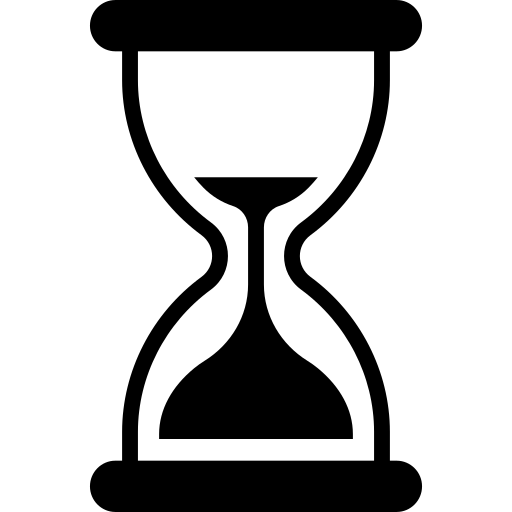
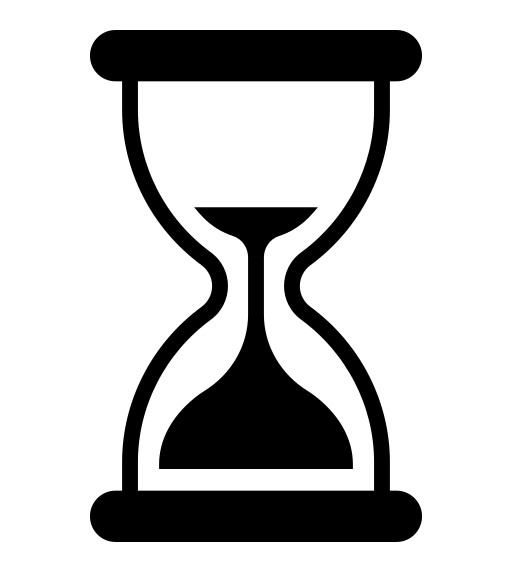
histoire fini + debut transition

diff --git a/pages/transition_numerique.html b/pages/transition_numerique.html
@@ -1,0 +1,80 @@
+<!DOCTYPE html>
+
+<html lang="en" xmlns="http://www.w3.org/1999/xhtml">
+<head>
+    <meta charset="utf-8" />
+    <title>Transition Numérique et Ecologique</title>
+    <link href="../style.css" rel="stylesheet">
+</head>
+<body>
+    <header>
+        <nav>
+            <img src="../assets/index/logo.png" alt="logo" />
+            <ul>
+                <li><a class="underline-animation" href="#">Projets</a></li>
+                <li><a class="underline-animation" href="#">Partenaire</a></li>
+                <li><a class="underline-animation" href="#">Ecologie</a></li>
+                <li><a class="underline-animation" href="#">Organisation</a></li>
+                <li><a class="underline-animation" href="#">Histoire</a></li>
+            </ul>
+        </nav>
+    </header>
+
+    <main class="main_transition_numerique">
+
+        <section>
+            <img src="../assets/transition_numerique/environnement.jpg" alt="Image de l'environnement" />
+            <span class="title">Transition numérique et écologique </span>
+        </section>
+
+        <section>
+            <p>SCC Une entreprise au coeur de l'environnement</p>
+        </section>
+
+        <section>
+            <p>
+                L’écologie est une valeur fondamentale de notre entreprise.
+            </p>
+
+            <p>
+                SCC France s’engage activement dans la transition écologique en alignant ses services sur les normes environnementales les plus strictes.
+                <img src="../assets/transition_numerique/ecologie_environnement.jpg" alt="Image arbre dans une ampoule" />
+            </p>
+        </section>
+
+        <section>
+            <p>
+                Dans un contexte de problème climatique important lié au réchauffement climatique et aux émissions de carbone,
+                chez SCC France la responsabilité sociétale des entreprises (RSE) est au centre des priorités.
+                <img src="../assets/transition_numerique/coeur_champ.jpg" alt="Image arbre dans une ampoule" />
+            </p>
+        </section>
+
+        <section>
+            <p>
+                Nos actions sont diverses et variées. Nous collaborons étroitement avec FRET 21 pour réduire de manière significative
+                les émissions de carbone liées au transport de nos installations.
+
+                Un autre point, notre partenariat avec HP qui nous permet de distribuer des ordinateurs à très faible consommation
+                énergétique au sein de notre entreprise.
+
+                Un engagement écologique reconnu par Ecovadis: Nous sommes classés parmi le top 1% attestant de notre performance
+                et cela pour la cinquième année de suite.
+
+                <img src="../assets/transition_numerique/Ecovadis_certification.png" alt="Certification Ecovadis" />
+            </p>
+        </section>
+
+        <section>
+            <p>
+                Nous sommes engagés pour réduire notre consommation d’électricité de nos serveurs et toutes nos installations informatiques. 
+                Cela a pour but d’offrir à nos clients la possibilité de s’investir dans la lutte contre le réchauffement climatique en réduisant leurs émissions et tout en renforçant leur image écoresponsable.
+
+                <img src="../assets/transition_numerique/ampoule_verte.jpg" alt="Ampoule verte en harmonie avec l'envrionnement" />
+            </p>
+        </section>
+
+    </main>
+
+</body>
+</html>

diff --git a/style.css b/style.css
@@ -178,13 +178,9 @@ button:hover {
     flex-direction: column;
 }
 
-.main_histoire h1{
-    align-self: center;
-}
 
 .main_histoire section {
-    width: 100%;
-    height: 35em;
+ 
     align-self: center;
     display: flex;
     flex-direction: column;
@@ -192,9 +188,9 @@ button:hover {
 }
 
 .main_histoire section > img {
-    width: 100%;
-    height: 100%;
-}
+     width: 100vw;
+     height: calc(100vh - 3em);
+ }
 
 .main_histoire article {
     background-color: #ece9e9;
@@ -221,22 +217,62 @@ button:hover {
     margin-right: 12em;
 }
 
-.main_histoire button{
-    position: relative;
-    width: 11em;
-    height: 10em;
-}
 
-.main_histoire button img{
-    width: 100%;
-    height: 50%;
-}
-
-.badge{
+.badge {
+    height: 8em;
+    width: 8em;
     position: absolute;
-    bottom: 20px;
+    display: block;
+    bottom: 5em;
     left: 50%;
     transform: translateX(-50%);
+    font-weight: bold;
+    border: 2px solid var(--blue);
+    background-color: var(--blue);
+    border-radius: 0.5em;
+    transition: background-color 0.5s ease;
+    box-shadow: 0 0 20px 0 var(--black);
+}
+
+.badge img{
+    height: 100%;
+    width: 100%;
+}
+
+.badge:hover{
+    background-color: transparent; 
+    border: 2px solid var(--blue);
+    box-shadow: 0 0 10px 0 var(--blue);
+}
+
+.title {
+    width: 12em;
+    text-align: center;
+    position: absolute;
+    display: block;
+    left: 50%;
+    transform: translateX(-50%);
+    top: 2em;
+    font-weight: bold;
+    font-size: 3em;
+    background-color: var(--blue);
+    display: block;
+    padding: 1em 2em 1em 2em;
+    border-radius: 1em;
+    color: var(--black);
+    box-shadow: 0 0 20px 0 var(--black);
+}
+
+
+
+/* Page Transition Numérique et Ecologique */
+
+.main_transition_numerique section > img {
+    width: 100vw;
+    height: calc(100vh - 3em);
+}
+
+
 
 /* page about */
 

diff --git a/pages/histoire_passe.html b/pages/histoire_passe.html
@@ -21,11 +21,12 @@
     </header>
     <main class="main_histoire">
 
-        <h1>Histoire de SCC - Passé</h1>
-
         <section>
-            <img src="../assets/histoire/SCC_locaux_ancien.png" alt="SCC locaux image noir et blanc" />
-            <span class="badge"><button><a href="histoire.html"> <img src="../assets/histoire/sablier.png" alt="sablier pour avancer le temps" /> Avancer le temps </a></button></span>
+            <img src="../assets/histoire/fond_histoire_passe.jpg" alt="Image de fond histoire en noir et blanc" />
+            <span class="title">Histoire de SCC</span>
+            <a href="histoire.html" class="badge">
+                <img src="../assets/histoire/sablier.png" alt="sablier pour avancer le temps" style="transform: rotate(180deg);" />
+            </a>
         </section>
 
         <article>

diff --git a/pages/histoire.html b/pages/histoire.html
@@ -21,15 +21,13 @@
     </header>
     <main class="main_histoire">
 
-        <h1>Histoire de SCC - Présent</h1>
+        
 
         <section>
-            <img src="../assets/histoire/SCC_locaux.png" alt="SCC locaux" />
-            <span class="badge"><button><a href="histoire_passe.html"> <img src="../assets/histoire/sablier.png" alt="sablier pour avancer le temps" /> Reculer le temps </a></button></span>
+            <img src="../assets/histoire/fond_histoire.jpg" alt="SCC locaux" />
+            <span class="title">Histoire de SCC</span>
+            <span class="badge"><a href="histoire_passe.html"> <img src="../assets/histoire/sablier.png" alt="sablier pour avancer le temps" /></a></span>
         </section>
-        <aside>
-            
-        </aside>
 
         <article>
             <p>2020</p>
